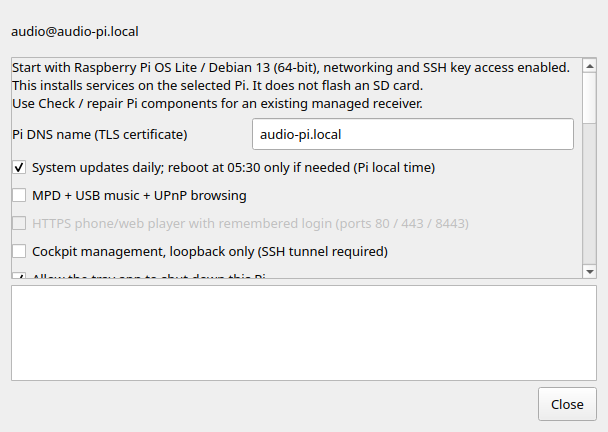
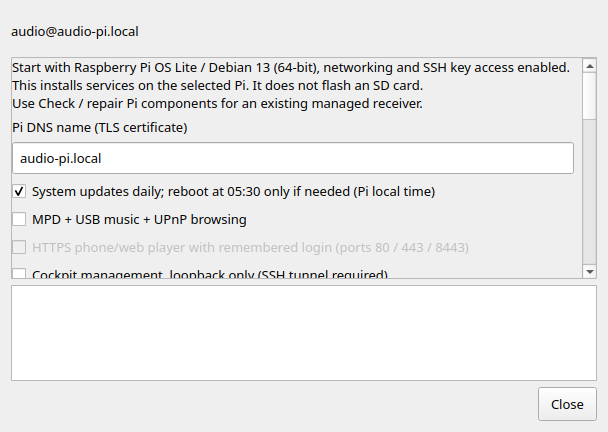
Stack setup field labels consistently across native form styles

diff --git a/tests/test_setup_layout.py b/tests/test_setup_layout.py
@@ -5,7 +5,7 @@ import unittest
 from unittest.mock import Mock, patch
 from PySide6.QtCore import QPoint, QRect, Qt
 from PySide6.QtTest import QTest
-from PySide6.QtWidgets import QApplication, QScrollArea
+from PySide6.QtWidgets import QApplication, QScrollArea, QWidget
 from i18n import available_languages, set_language
 from setup_ui import SetupDialog
 from ui_style import STYLE
@@ -39,7 +39,10 @@ class SetupLayout(unittest.TestCase):
                 self.assertLessEqual(dialog.height(), 480)
                 scroll = dialog.findChild(QScrollArea)
                 self.assertIsNotNone(scroll)
-                self.assertEqual(scroll.horizontalScrollBar().maximum(), 0)
+                overflow = [(type(widget).__name__, widget.minimumSizeHint().width())
+                            for widget in scroll.findChildren(QWidget)
+                            if widget.minimumSizeHint().width() > scroll.viewport().width()]
+                self.assertEqual(scroll.horizontalScrollBar().maximum(), 0, overflow)
                 self.assertGreater(scroll.verticalScrollBar().maximum(), 0)
                 for control in (dialog.close_button, dialog.log):
                     top_left = control.mapTo(dialog, QPoint(0, 0))

diff --git a/setup_ui.py b/setup_ui.py
@@ -53,7 +53,7 @@ class SetupDialog(QDialog):
         self.target.setTextFormat(Qt.TextFormat.PlainText)
         outer.insertWidget(0, self.target)
         form = QFormLayout()
-        form.setRowWrapPolicy(QFormLayout.RowWrapPolicy.WrapLongRows)
+        form.setRowWrapPolicy(QFormLayout.RowWrapPolicy.WrapAllRows)
         self.hostname = QLineEdit(config['host'])
         form.addRow(tr('Pi DNS name (TLS certificate)'), self.hostname)
         self.updates = WrappedCheckBox(tr('System updates daily; reboot at 05:30 only if needed (Pi local time)'))
@@ -74,6 +74,7 @@ class SetupDialog(QDialog):
         self.terms = WrappedCheckBox(tr('Download Soloist directly from Spotify; I have reviewed its terms'))
         form.addRow(self.terms)
         terms = QLabel('<a href="https://developer.spotify.com/documentation/soloist">' + tr('Spotify Soloist documentation and terms') + '</a>')
+        terms.setWordWrap(True)
         terms.setOpenExternalLinks(True)
         form.addRow(terms)
         self.password = QLineEdit()
